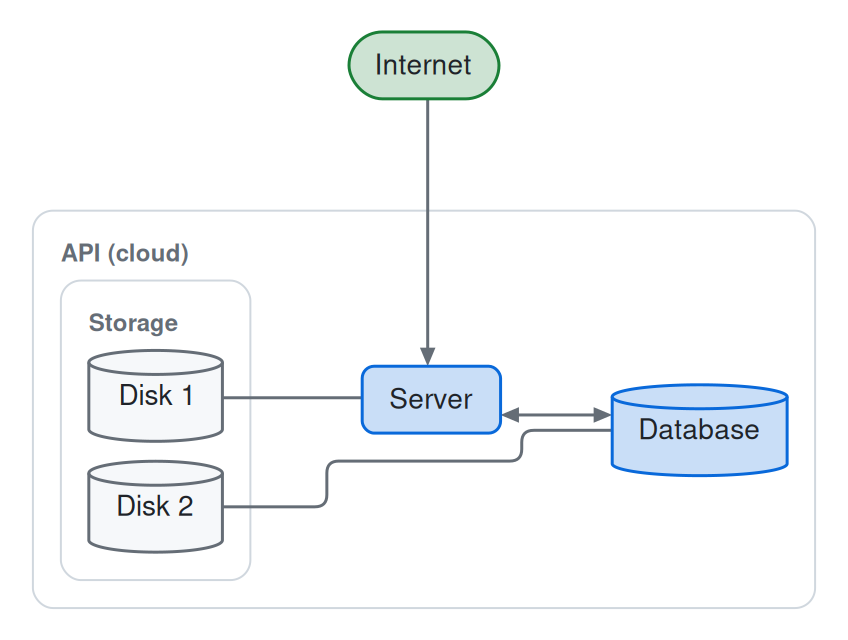
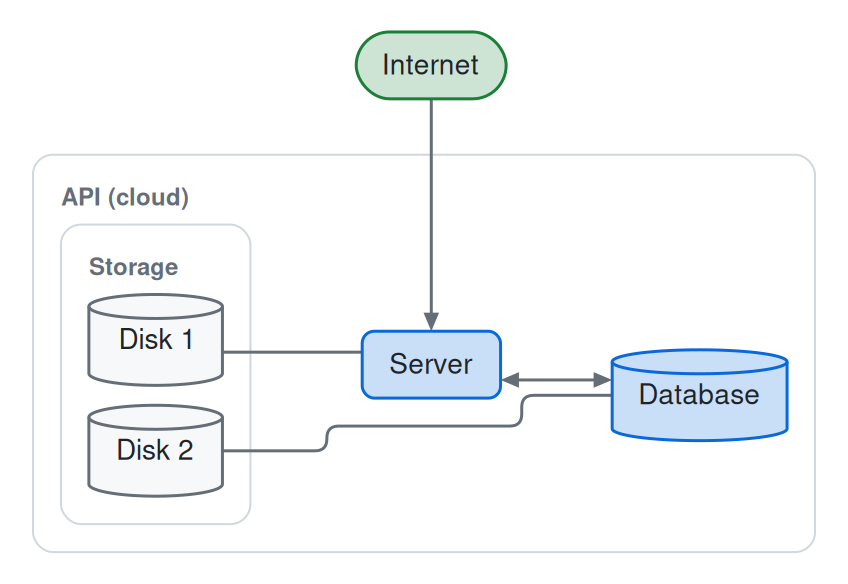
fix(layout): balance node sides and align with endpoints inside groups

diff --git a/src/nodal/layout.py b/src/nodal/layout.py
@@ -215,6 +215,12 @@ class LayeredLayout(Layout):
         kids = self.kids
         idx = {k.id: i for i, k in enumerate(kids)}
         edges = [(a.id, b.id, float(e.attrs.get("weight", 1))) for a, b, e in local_edges(g, self.doc)]
+        # where inside a child box does the real endpoint sit (cross axis, rel. to centre)?
+        # lets a node line up with the actual node inside a group, not the group centre
+        self.portoff = {}
+        for a, b, e in local_edges(g, self.doc):
+            self.portoff[(a.id, b.id)] = self._inner_off(self.doc.items[e.src], a, horizontal)
+            self.portoff[(b.id, a.id)] = self._inner_off(self.doc.items[e.dst], b, horizontal)
 
         # 1. break cycles with DFS in source order
         succ = defaultdict(list)
@@ -284,9 +290,12 @@ class LayeredLayout(Layout):
                 size[vid] = (0.0, 0.0)
                 rank[vid] = r
                 adj.append((prev, vid, w))
+                if prev == a:
+                    self.portoff[(a, vid)] = self.portoff.get((a, b), self.portoff.get((a, b), 0.0))
                 chain.append(vid)
                 prev = vid
             adj.append((prev, b, w))
+            self.portoff[(b, prev)] = self.portoff.get((b, a), 0.0)
             self.virtual_chains[(a, b)] = chain
         lo, hi = min(layers), max(layers)
         order = [layers.get(r, []) for r in range(lo, hi + 1)]
@@ -379,6 +388,21 @@ class LayeredLayout(Layout):
         self._store_waypoints(horizontal)
         return (total_main, cross_total) if horizontal else (cross_total, total_main)
 
+    @staticmethod
+    def _inner_off(item, child, horizontal):
+        """Cross-axis offset of `item`'s centre from the centre of `child` (its ancestor-or-self)."""
+        if item is child:
+            return 0.0
+        c = (item.y + item.h / 2) if horizontal else (item.x + item.w / 2)
+        cur = item.parent
+        while cur is not None and cur is not child:
+            c += (cur.oy + cur.y) if horizontal else (cur.ox + cur.x)
+            cur = cur.parent
+        if cur is None:
+            return 0.0
+        c += child.oy if horizontal else child.ox
+        return c - ((child.h if horizontal else child.w) / 2)
+
     def _median_pull(self, order, pos, up, down, csz, node_gap, vgap):
         def gap(a, b):
             return (vgap if a.startswith("__v") or b.startswith("__v") else node_gap)
@@ -386,8 +410,9 @@ class LayeredLayout(Layout):
             for li in (range(len(order)) if it % 2 == 0 else range(len(order) - 1, -1, -1)):
                 layer = order[li]
                 want = {}
+                po = self.portoff
                 for u in layer:
-                    ns = [(pos[v], w) for v, w in up[u] + down[u]]
+                    ns = [(pos[v] + po.get((v, u), 0.0) - po.get((u, v), 0.0), w) for v, w in up[u] + down[u]]
                     if ns:
                         ns.sort()
                         tot = sum(w for _, w in ns)

diff --git a/src/nodal/svg.py b/src/nodal/svg.py
@@ -71,6 +71,39 @@ class SvgRenderer:
                 # opposite-direction edges get mirrored sign so they stay apart
                 self.offset[e.id] = k if e.src <= e.dst else -k
         self.bend_level = {}
+        self.port_shift = {}
+        self._spread_ports()
+
+    def _spread_ports(self):
+        """Several edges on one side of a node: spread them symmetrically around the
+        side's middle (ordered by where they go), so the node stays visually balanced."""
+        sides: dict[tuple[str, str], list] = {}
+        for e in self.doc.edges:
+            if e.attrs.get("exit") or e.attrs.get("enter") or self.offset.get(e.id):
+                continue
+            pts, axis = self.edge_geometry(e)
+            if axis not in ("v", "h"):
+                continue
+            a, b = self.doc.items[e.src], self.doc.items[e.dst]
+            if flow_dir(lca(a, b, self.doc.root)) == "auto" or e.style.get("route", "curve") in ("straight", "ortho"):
+                continue  # ortho fan-in/out merges into a bus instead
+            i = 0 if axis == "v" else 1
+            for end, node, here, there in ((0, a, pts[0], pts[1] if len(pts) > 2 else pts[-1]),
+                                           (1, b, pts[-1], pts[-2] if len(pts) > 2 else pts[0])):
+                side = ("bottom" if there[1] > here[1] else "top") if axis == "v" else \
+                       ("right" if there[0] > here[0] else "left")
+                sides.setdefault((node.id, side), []).append((there[i], e.id, end, i))
+        for (nid, side), lst in sides.items():
+            if len(lst) < 2:
+                continue
+            n = self.doc.items[nid]
+            if n.attrs.get("shape", "box") in ("diamond", "circle", "ellipse") and not isinstance(n, Group):
+                continue
+            span = n.w if side in ("top", "bottom") else n.h
+            step = min(18.0, (span - 12) / (len(lst) - 1)) if span > 12 else 0.0
+            lst.sort()
+            for k, (_, eid, end, i) in enumerate(lst):
+                self.port_shift[(eid, end)] = (k - (len(lst) - 1) / 2) * step
 
     def _shared_bends(self):
         """Ortho fan-in/fan-out: edges sharing a target (or source) turn at one common
@@ -134,6 +167,13 @@ class SvgRenderer:
             if not sep:
                 vert = not vert  # same rank: connect sideways
             p0, p1 = self._ports(e, a, b, vert, sep)
+            s0, s1 = getattr(self, "port_shift", {}).get((e.id, 0), 0.0), getattr(self, "port_shift", {}).get((e.id, 1), 0.0)
+            if vert:
+                p0, p1 = (p0[0] + s0, p0[1]), (p1[0] + s1, p1[1])
+            else:
+                p0, p1 = (p0[0], p0[1] + s0), (p1[0], p1[1] + s1)
+            if s0 or s1:
+                return [p0] + wps + [p1], ("v" if vert else "h")
             if off:
                 if vert:
                     p0, p1 = (p0[0] + off, p0[1]), (p1[0] + off, p1[1])
